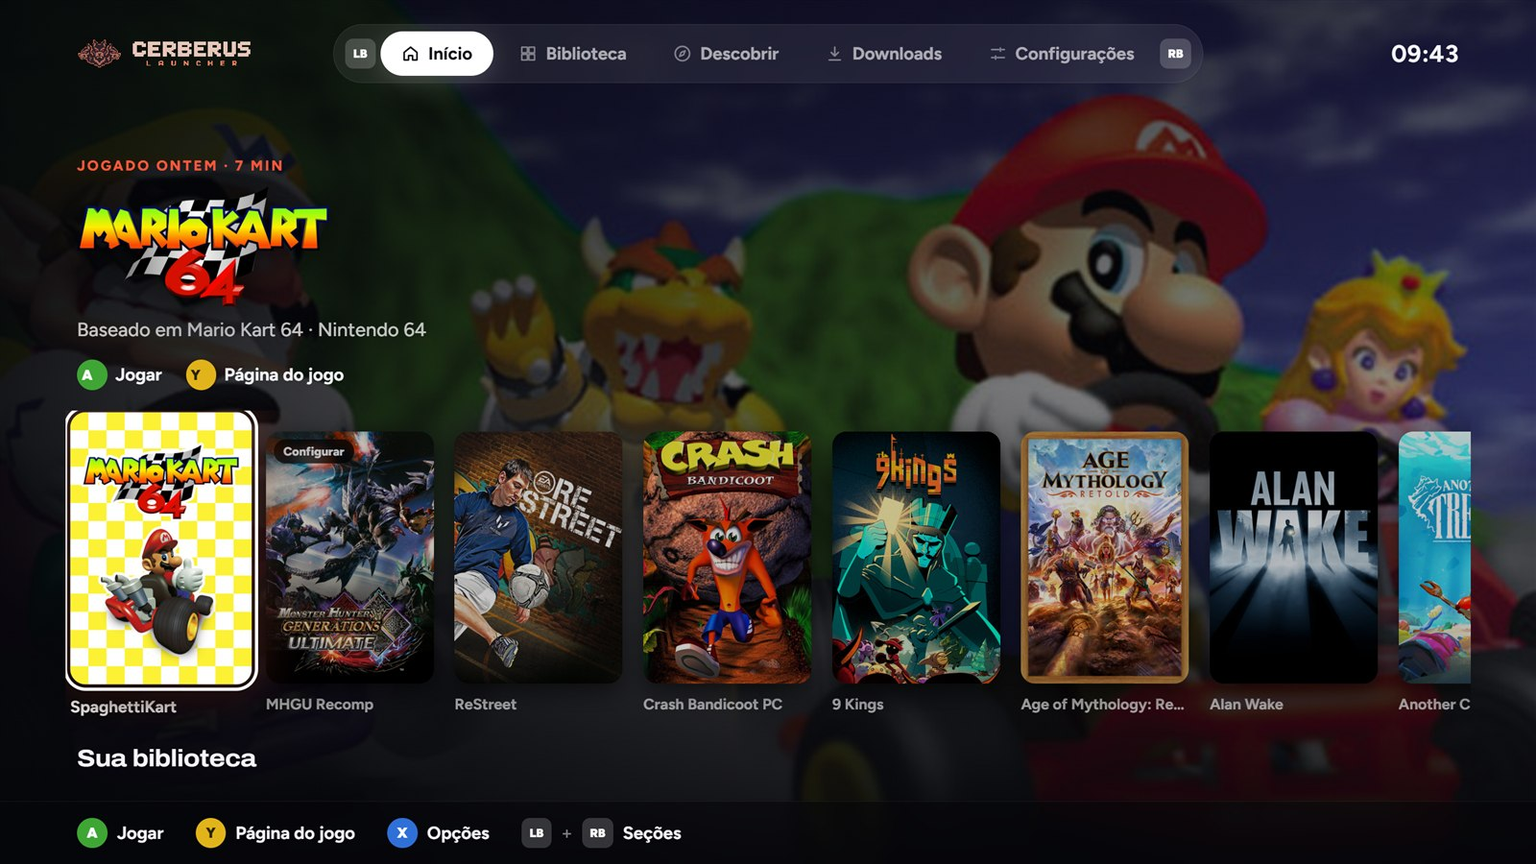
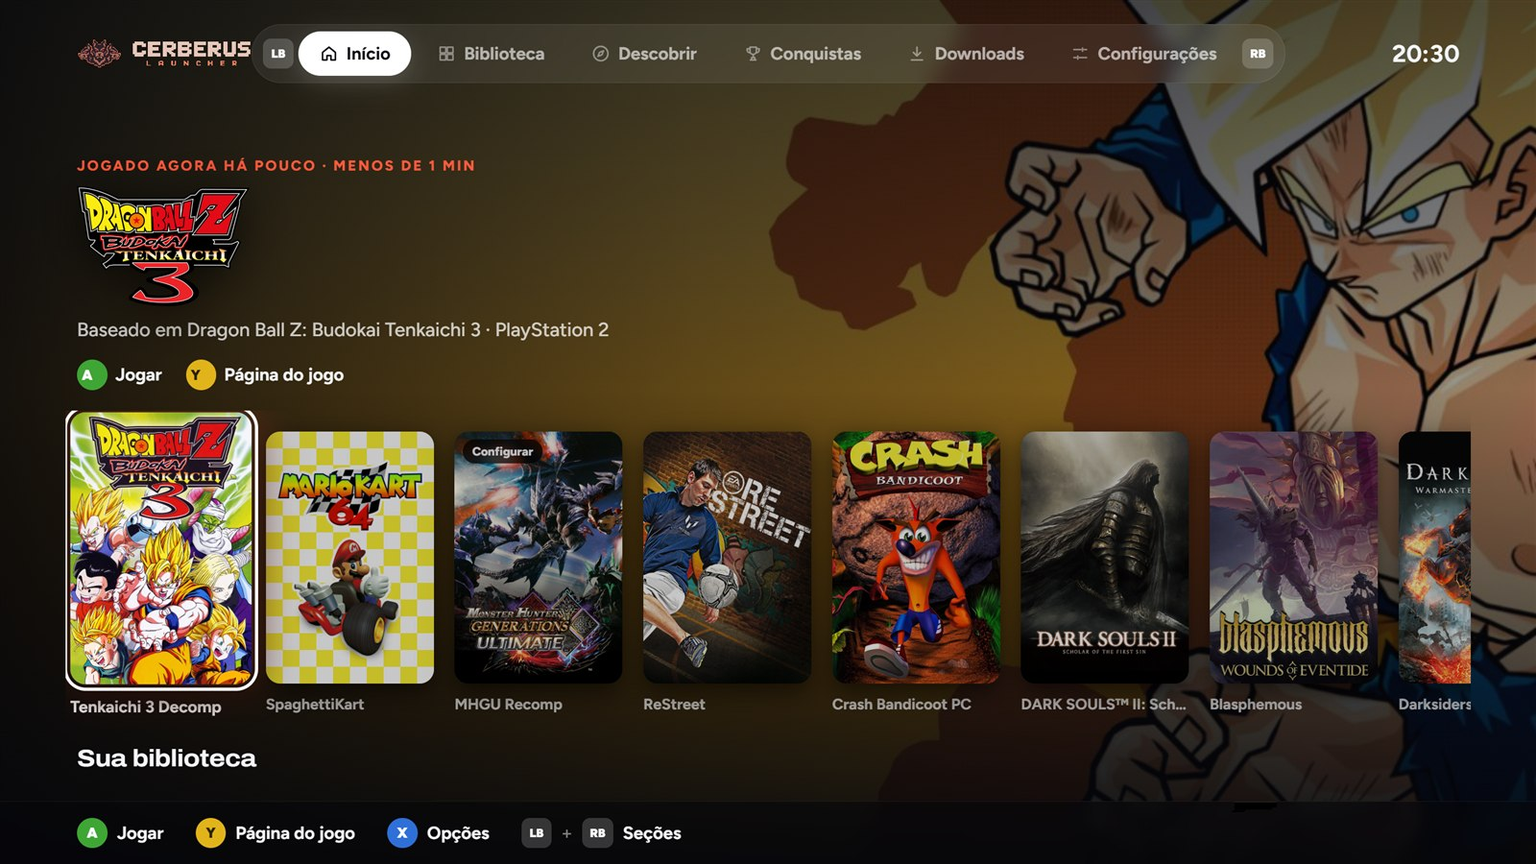
Docs e READMEs: tudo o que entrou nesta versão, com prints novos
Guia novo de Início, menu lateral e Novidades; READMEs com Conquistas,
Novidades, aparência, cópia dos dados, controles e o fim da configuração
inicial; Descobrir com gênero e recurso; CHANGELOG com a próxima versão.
Prints refeitos (início, biblioteca, descobrir, página do jogo, Big Picture,
configuração inicial) e novos (conquistas, novidades, configurações,
conquistas no Big Picture), todos em 1600x900.

Claude-Session: https://claude.ai/code/session_01SNGMTyfas1YiwUwxsbP8rN

diff --git a/README.pt-BR.md b/README.pt-BR.md
@@ -37,25 +37,31 @@ O Cerberus é um launcher de jogos para Windows, gratuito, de código aberto e f
 
 | | |
 |---|---|
-| <img src="docs/screenshots/library.jpg" alt="Biblioteca" /> | **Biblioteca**<br>Steam, Epic e seus jogos num lugar só. Tem favoritos, coleções, jogos ocultos, arte do SteamGridDB, e tempo de jogo e histórico de cada jogo. |
-| <img src="docs/screenshots/discover.jpg" alt="Descobrir" /> | **Descobrir**<br>Mais de 1.500 recomps e ports nativos, com busca por jogo, console ou autor. Instala das releases dos desenvolvedores no GitHub, GitLab ou Forgejo, conferindo o arquivo. Dá para pausar e continuar downloads. |
+| <img src="docs/screenshots/library.jpg" alt="Biblioteca" /> | **Biblioteca**<br>Steam, Epic e seus jogos num lugar só. Tem favoritos, coleções, jogos ocultos, arte do SteamGridDB, e tempo de jogo e histórico de cada jogo. Os jogos que dá para abrir agora também ficam no menu lateral, em **Prontos para jogar**. |
+| <img src="docs/screenshots/discover.jpg" alt="Descobrir" /> | **Descobrir**<br>Mais de 1.500 recomps e ports nativos, com busca por jogo, console ou autor, e filtro por gênero ou pelo que o recomp traz (controle, conquistas, multijogador, tela larga, mods). Instala das releases dos desenvolvedores no GitHub, GitLab ou Forgejo, conferindo o arquivo. Dá para pausar e continuar downloads. |
 | <img src="docs/screenshots/game-page.jpg" alt="Página do jogo" /> | **Página do jogo**<br>Tempo de jogo, versões, saves, ajustes, mods, fotos e gerenciamento numa página só. O **Easy Setup** acha a sua cópia nas pastas de ROMs e entrega do jeito que cada recomp espera: ROM, pasta extraída, ISO, imagem de Xbox ou Xbox 360, CHD ou CSO. |
-| <img src="docs/screenshots/big-picture.jpg" alt="Big Picture Mode" /> | **Big Picture Mode**<br>Tela para jogar do sofá, com controle, teclado ou mouse. Abre em tela cheia no monitor que você escolher. |
+| <img src="docs/screenshots/achievements.jpg" alt="Conquistas" /> | **Conquistas**<br>Steam e RetroAchievements numa página só: seus platinados (jogos com 100%), os mais perto disso, as últimas desbloqueadas e a lista completa de cada jogo, com raridade. Um aviso aparece por cima do jogo na hora em que uma conquista cai. |
+| <img src="docs/screenshots/big-picture.jpg" alt="Big Picture Mode" /> | **Big Picture Mode**<br>Tela para jogar do sofá, com controle, teclado ou mouse. Abre em tela cheia no monitor que você escolher. Tem filtros na Biblioteca, gêneros no Descobrir, aba de Conquistas e avisos no tamanho da TV. |
+| <img src="docs/screenshots/news.jpg" alt="Novidades" /> | **Novidades**<br>Atualizações esperando pelos seus recomps, os anúncios mais recentes dos desenvolvedores dos seus jogos da Steam e o que aconteceu com cada jogo. |
 
 ### E mais
 
 - **Hub de conquistas:** todos os jogos com conquistas da Steam e do RetroAchievements, as últimas desbloqueadas, os seus platinados (jogos com 100%), os mais perto disso e a lista completa de cada jogo, com raridade e conquistas secretas. Os selos do RetroAchievements (zerado, completo, dominado) aparecem no jogo, os do hardcore em dourado. A Steam funciona direto deste PC; com a sua chave gratuita da Web API da Steam, vem a conta inteira. Enquanto você joga um jogo da Steam, o Cerberus avisa quando uma conquista é desbloqueada.
+- **Do seu jeito:** tema Escuro ou Preto (OLED), cinco cores de destaque, tamanho da janela de 90% a 125% e uma busca em **Configurações** que leva direto a qualquer opção.
+- **Seus dados num arquivo só:** **Configurações → Armazenamento → Copiar meus dados** salva biblioteca, favoritos, coleções, notas, tempo de jogo, capas escolhidas e configurações num `.zip` (nunca suas chaves ou senhas). **Restaurar de uma cópia** traz tudo de volta, neste PC ou em outro.
 - **Backup dos saves** depois de cada partida, antes de atualizar e antes de desinstalar. O Cerberus guarda os 10 mais recentes, e eles podem ir para a nuvem por uma pasta sincronizada (OneDrive, Google Drive, Dropbox).
 - **Mods** com um clique, do Thunderstore e do GameBanana. Funciona com Ship of Harkinian, Starship, SpaghettiKart, Ghostship, Unleashed e Marathon Recompiled.
 - **Durante o jogo:**
   - <kbd>F12</kbd> tira uma foto só da janela do jogo.
   - <kbd>Ctrl</kbd>+<kbd>F12</kbd>, ou **View + Menu** no controle, abre um menu por cima do jogo. O menu mostra o tempo de jogo e tem tirar foto, voltar ao Cerberus e fechar o jogo.
+  - Em **Configurações → Durante o jogo** você liga ou desliga cada um, escolhe o canto do aviso de conquista e pode minimizar o Cerberus enquanto joga.
 - **Filtros visuais** Nítido, Cores vivas, CRT e Filme, pelo ReShade.
 - **Erro explicado:** quando um jogo fecha com erro, o Cerberus diz o motivo e onde está o log do jogo. O motivo pode ser uma DLL faltando, um Visual C++ antigo ou um travamento.
 - **DLSS:** mostra a versão que o jogo usa e troca por uma DLL que você já tem. Dá para voltar à original quando quiser.
 - **Steam:** você pode colocar qualquer jogo na Steam (para o Steam Deck e o Big Picture) ou criar um atalho na área de trabalho que abre pelo Cerberus.
 - **Clássicos com vários discos** aparecem como um jogo só. A troca de disco fica no menu do RetroArch.
-- **Integração com o Windows:** ícone na bandeja, abrir com o Windows, avisos e uma janela só, mesmo se você abrir de novo.
+- **Integração com o Windows:** ícone na bandeja, abrir com o Windows, avisos que você escolhe um por um e uma janela só, mesmo se você abrir de novo.
+- **Controles:** **Configurações → Controles** mostra os controles conectados (Xbox, PlayStation, Nintendo) e testa cada botão.
 - **Idiomas:** português do Brasil e inglês. Segue o idioma do Windows, ou você escolhe em **Configurações → Aparência → Idioma**. O instalador também fala os dois.
 
 ## Baixar e instalar
@@ -86,6 +92,7 @@ Na primeira vez, uma configuração rápida pergunta algumas coisas. Tudo pode s
 3. **Suas pastas de ROMs:** o Cerberus procura nelas e mostra quais dos seus jogos já têm recomp.
 4. **Onde instalar os recomps**, com o espaço livre de cada disco.
 5. **Saves na nuvem:** uma pasta que o OneDrive, o Google Drive ou o Dropbox sincroniza.
+6. **Tudo pronto:** seus jogos que têm recomp, e o que mais o Cerberus achou no PC: jogos da Steam e da Epic, e o RetroArch.
 
 ### Instalar um recomp
 
@@ -167,7 +174,7 @@ Use **Pedir um recomp** no Descobrir ou [abra uma issue](https://github.com/roge
 A documentação completa fica em **[docs/](docs/README.md)**. Por enquanto ela está só em inglês; as traduções vêm depois.
 
 - **Primeiros passos:** [instalação](docs/getting-started/installation.md) · [primeira abertura](docs/getting-started/first-launch.md)
-- **Guia:** [biblioteca](docs/guide/library.md) · [recomps](docs/guide/recomps.md) · [Easy Setup](docs/guide/easy-setup.md) · [clássicos](docs/guide/classics.md) · [conquistas](docs/guide/achievements.md) · [saves](docs/guide/saves.md) · [mods](docs/guide/mods.md) · [durante o jogo](docs/guide/in-game.md) · [Big Picture Mode](docs/guide/big-picture.md) · [gerenciar um jogo](docs/guide/managing-games.md) · [configurações](docs/guide/settings.md)
+- **Guia:** [início e novidades](docs/guide/home-and-news.md) · [biblioteca](docs/guide/library.md) · [recomps](docs/guide/recomps.md) · [Easy Setup](docs/guide/easy-setup.md) · [clássicos](docs/guide/classics.md) · [conquistas](docs/guide/achievements.md) · [saves](docs/guide/saves.md) · [mods](docs/guide/mods.md) · [durante o jogo](docs/guide/in-game.md) · [Big Picture Mode](docs/guide/big-picture.md) · [gerenciar um jogo](docs/guide/managing-games.md) · [configurações](docs/guide/settings.md)
 - **Ajuda:** [solução de problemas](docs/help/troubleshooting.md) · [perguntas frequentes](docs/help/faq.md) · [dados e privacidade](docs/help/data-and-privacy.md)
 - **Desenvolvimento:** [arquitetura](docs/development/architecture.md) · [compilar](docs/development/building.md) · [catálogo de recomps](docs/development/catalog.md) · [fontes de catálogo](docs/development/catalog-sources.md) · [traduções](docs/development/translations.md) · [publicar versão](docs/development/releasing.md)
 

diff --git a/README.md b/README.md
@@ -40,23 +40,28 @@ Cerberus is a free, open-source game launcher for Windows, written entirely in R
 
 | | |
 |---|---|
-| <img src="docs/screenshots/library.jpg" alt="Library" /> | **Library**<br>Steam, Epic and your own games in one place. You get favorites, collections, hidden games, custom art from SteamGridDB, and play time and history for every game. |
-| <img src="docs/screenshots/discover.jpg" alt="Discover" /> | **Discover**<br>Over 1,500 recomps and native ports. You can search by game, console or author. Installs come from the developers' GitHub, GitLab or Forgejo releases, with checksum verification. You can pause and resume downloads. |
+| <img src="docs/screenshots/library.jpg" alt="Library" /> | **Library**<br>Steam, Epic and your own games in one place. You get favorites, collections, hidden games, custom art from SteamGridDB, and play time and history for every game. Every game you can start right now is also in the side menu, under **Ready to play**. |
+| <img src="docs/screenshots/discover.jpg" alt="Discover" /> | **Discover**<br>Over 1,500 recomps and native ports. You can search by game, console or author, and filter by genre or by what a recomp adds (controller, achievements, multiplayer, widescreen, mods). Installs come from the developers' GitHub, GitLab or Forgejo releases, with checksum verification. You can pause and resume downloads. |
 | <img src="docs/screenshots/game-page.jpg" alt="Game page" /> | **Game page**<br>Play time, versions, saves, game settings, mods, screenshots and management, all in one page. **Easy Setup** finds your copy in your ROM folders and delivers it the way each recomp expects. That works for a ROM, an extracted folder, an ISO, an Xbox or Xbox 360 image, a CHD or a CSO. |
-| <img src="docs/screenshots/big-picture.jpg" alt="Big Picture Mode" /> | **Big Picture Mode**<br>A TV interface for the couch. You can use a controller, keyboard or mouse, and it opens full screen on the monitor you choose. |
+| <img src="docs/screenshots/achievements.jpg" alt="Achievements" /> | **Achievements**<br>Steam and RetroAchievements on one page: your platinums (games at 100%), the games closest to it, the latest unlocks and each game's full list with rarity. A notice shows over the game the moment one unlocks. |
+| <img src="docs/screenshots/big-picture.jpg" alt="Big Picture Mode" /> | **Big Picture Mode**<br>A TV interface for the couch. You can use a controller, keyboard or mouse, and it opens full screen on the monitor you choose. It has its own Library filters, genres in Discover, an Achievements tab and TV-sized notices. |
+| <img src="docs/screenshots/news.jpg" alt="News" /> | **News**<br>Updates waiting for your recomps, the latest announcements from the developers of your Steam games, and what happened lately with every game. |
 
 ### And also
 
 - **Achievements hub:** every game with achievements from Steam and RetroAchievements, the latest unlocks, your platinums (games at 100%), the games closest to it, and each game's full list with rarity and secret achievements. RetroAchievements awards (beaten, completed, mastered) show as badges, hardcore ones in gold. Steam works straight from this PC; with your free Steam Web API key it covers your whole account. While you play a Steam game, Cerberus tells you when an achievement unlocks.
+- **Make it yours:** Dark or Black (OLED) theme, five accent colors, window size from 90% to 125%, and a search box in **Settings** that takes you straight to any option.
+- **Your data in one file:** **Settings → Storage → Copy my data** saves the library, favorites, collections, notes, play time, chosen covers and settings in a `.zip` (never your keys or passwords). **Restore from a copy** brings it back, on this PC or another one.
 - **Save backups:** after every session, before updates and before uninstalling. Cerberus keeps the 10 most recent backups, and can copy them to the cloud through any synced folder (OneDrive, Google Drive, Dropbox).
 - **Mods:** one-click mods from Thunderstore and GameBanana, including Ship of Harkinian, Starship, SpaghettiKart, Ghostship, Unleashed and Marathon Recompiled.
-- **In-game tools:** <kbd>F12</kbd> takes a screenshot of just the game window. <kbd>Ctrl</kbd>+<kbd>F12</kbd> (or **View + Menu** on a controller) opens a menu on top of the game, with play time, screenshots, "back to Cerberus" and "close game".
+- **In-game tools:** <kbd>F12</kbd> takes a screenshot of just the game window. <kbd>Ctrl</kbd>+<kbd>F12</kbd> (or **View + Menu** on a controller) opens a menu on top of the game, with play time, screenshots, "back to Cerberus" and "close game". **Settings → While playing** turns each one on or off, picks the corner for achievement notices, and can minimize Cerberus while a game runs.
 - **Visual filters:** Sharp, Vivid, CRT and Film, applied with ReShade.
 - **Crash explanations:** when a game closes with an error, Cerberus tells you the cause and where the game's log is. The cause can be a missing DLL, an old Visual C++ runtime or a crash.
 - **DLSS:** Cerberus shows which DLSS version a game uses. You can swap it for a DLL you already have and go back to the original at any time.
 - **Steam integration:** add any game to Steam (for Steam Deck and Big Picture), or create a desktop shortcut that opens the game through Cerberus.
 - **Multi-disc classics:** games on several discs show up as one game, and you swap discs from RetroArch's menu.
-- **Windows integration:** tray icon, start with Windows, notifications, and only one copy of Cerberus running at a time.
+- **Windows integration:** tray icon, start with Windows, notifications you choose one by one, and only one copy of Cerberus running at a time.
+- **Controllers:** **Settings → Controllers** lists the connected controllers (Xbox, PlayStation, Nintendo) and lets you test every button.
 - **Languages:** English and Brazilian Portuguese, following Windows or picked in the settings. The installer speaks both too.
 
 ## Download and install
@@ -86,6 +91,7 @@ The first time Cerberus opens, a short setup guide asks a few questions. You can
 3. **Your ROM folders:** Cerberus scans them and shows which of your games already have a recomp.
 4. **Where recomps are installed,** with the free space on each drive.
 5. **Saves in the cloud:** a folder that OneDrive, Google Drive or Dropbox keeps in sync.
+6. **All set:** your games that have a recomp, and what else Cerberus found on this PC: Steam and Epic games, and RetroArch.
 
 ### Install a recomp
 
@@ -167,7 +173,7 @@ Use **Request a recomp** in Discover, or [open an issue](https://github.com/roge
 The full documentation lives in **[docs/](docs/README.md)**:
 
 - **Getting started:** [Installation](docs/getting-started/installation.md) · [First launch](docs/getting-started/first-launch.md)
-- **User guide:** [Library](docs/guide/library.md) · [Recomps](docs/guide/recomps.md) · [Easy Setup](docs/guide/easy-setup.md) · [Classics](docs/guide/classics.md) · [Achievements](docs/guide/achievements.md) · [Saves](docs/guide/saves.md) · [Mods](docs/guide/mods.md) · [While you play](docs/guide/in-game.md) · [Big Picture Mode](docs/guide/big-picture.md) · [Managing a game](docs/guide/managing-games.md) · [Settings](docs/guide/settings.md)
+- **User guide:** [Home and News](docs/guide/home-and-news.md) · [Library](docs/guide/library.md) · [Recomps](docs/guide/recomps.md) · [Easy Setup](docs/guide/easy-setup.md) · [Classics](docs/guide/classics.md) · [Achievements](docs/guide/achievements.md) · [Saves](docs/guide/saves.md) · [Mods](docs/guide/mods.md) · [While you play](docs/guide/in-game.md) · [Big Picture Mode](docs/guide/big-picture.md) · [Managing a game](docs/guide/managing-games.md) · [Settings](docs/guide/settings.md)
 - **Help:** [Troubleshooting](docs/help/troubleshooting.md) · [FAQ](docs/help/faq.md) · [Data and privacy](docs/help/data-and-privacy.md)
 - **Development:** [Architecture](docs/development/architecture.md) · [Building](docs/development/building.md) · [Recomp catalog](docs/development/catalog.md) · [Catalog sources](docs/development/catalog-sources.md) · [Translations](docs/development/translations.md) · [Releasing](docs/development/releasing.md)
 

diff --git a/docs/guide/home-and-news.md b/docs/guide/home-and-news.md
@@ -1,0 +1,31 @@
+# Home, the side menu and News
+
+![Home](../screenshots/home.jpg)
+
+## Home
+
+**Home** is where Cerberus opens (you can change that in **Settings → General → Start page**).
+
+- **The banner** at the top shows the game you were playing, then a few recomps worth a look. For your game it shows its logo, when you last played, how long the last session was, your total time and achievement progress, with **Play** and **Details**. It moves on by itself; the arrows and dots move it by hand, and the pause button stops it.
+- **Play again:** the games you played most recently.
+- **Favorites:** every game you starred.
+- **Found in your folders:** recomps for games that are in your ROM folders.
+- **Popular now** and **Recently added:** from the recomp catalog.
+
+Hover a cover to get a round **Play** button (or **Install**), so you can start a game without opening its page. A thin bar at the bottom of a cover shows its achievement progress; at 100% it turns gold and says **Platinum**. Each row has arrows at the top right to scroll it.
+
+## The side menu
+
+- **Pages:** Home, Library, Discover, Achievements, Downloads, Saves and News. Downloads and News show a count when something is waiting.
+- **Ready to play:** every game you can start right now, favorites first, then the most recently played. A game that is running shows a dot. Hover one for its **Play** button, or click it for its page. With more than 8 games, a filter box appears on top.
+- **At the bottom:** **+** adds any game (`.exe`), the TV button opens [Big Picture Mode](big-picture.md), and the last one opens [Settings](settings.md).
+
+## News
+
+![News](../screenshots/news.jpg)
+
+**News** shows what changed since you last looked:
+
+- **Updates available:** your recomps that have a newer release, with **See what changed** and **Update**.
+- **News from your games:** the latest announcements from the developers of your 12 most recently played Steam games: patches, updates and events, with cover, date and the start of the post. Click one to read it on Steam in your browser. It uses Steam's public news, with no key and no account; the answers are kept for 6 hours, so the page opens at once.
+- **Recent activity:** installs, play sessions, backups, achievements and problems across all your games. Click a line to open that game's page.

diff --git a/CHANGELOG.md b/CHANGELOG.md
@@ -1,5 +1,46 @@
 # Novidades
 
+## Próxima versão
+
+### Início, menu lateral e Novidades
+
+- Banner com o logo do jogo, sua última sessão, tempo total e conquistas; botão **Jogar** na própria capa; fileira de Favoritos.
+- Menu lateral com **Prontos para jogar**: os jogos que dá para abrir agora, com filtro. Embaixo, **+** (adicionar jogo), Big Picture e Configurações.
+- **Novidades** mostra os anúncios dos desenvolvedores dos seus jogos da Steam, além das atualizações e da atividade recente.
+
+### Biblioteca e Descobrir
+
+- Jogos da sua conta Steam que não estão instalados, com **Instalar**.
+- Situação, nota e anotações de cada jogo, e jogo aleatório.
+- Barra de conquistas na capa; a 100% o jogo vira **Platinado**.
+- Descobrir com filtro por gênero e pelo que o recomp traz (controle, conquistas, multijogador, tela larga, mods).
+
+### Conquistas
+
+- Hub com Steam e RetroAchievements: platinados, perto dos 100%, últimas desbloqueadas e a lista de cada jogo com raridade.
+- Aviso por cima do jogo quando uma conquista cai, no canto que você escolher.
+- Chave opcional da Web API da Steam para a conta inteira.
+
+### Página do jogo, Downloads e Saves
+
+- Dados da loja da Steam, galeria com trailers, gráfico de jogatina e coluna lateral.
+- Downloads em seções, limite de velocidade e mais devagar enquanto você joga.
+- Saves com status de cada jogo, nuvem e histórico na própria página.
+
+### Big Picture Mode
+
+- Página de jogo completa, filtros na Biblioteca, gêneros no Descobrir e aba de Conquistas com a lista de cada jogo.
+- O jogo aberto aparece no topo, e os avisos aparecem no tamanho da TV.
+
+### Configurações
+
+- Busca: digite parte do nome e vá direto para a opção.
+- **Aparência:** tema Escuro ou Preto (OLED), cinco cores de destaque e tamanho da janela (90% a 125%).
+- **Durante o jogo**, **Notificações**, **Controles** e **Epic Games**.
+- **Armazenamento:** copiar os seus dados num `.zip` (sem chaves nem senhas) e restaurar de uma cópia.
+- Configuração inicial começa pelo idioma e termina mostrando o que o Cerberus achou no PC.
+- O próprio Cerberus avisa quando tem versão nova.
+
 ## 0.10.0 — primeira versão para Windows
 
 Primeira versão com instalador. Baixe `Cerberus-Launcher_0.10.0_x64-setup.exe` em Assets e instale.

diff --git a/docs/guide/big-picture.md b/docs/guide/big-picture.md
@@ -21,6 +21,9 @@ It opens on the monitor chosen in **Settings → General → Monitor**. That opt
 - **Achievements:** your totals and platinums, then rows of games close to 100%, platinums and recent unlocks, each cover with its count and bar. **A** opens the game's page; games that aren't in the library (RetroAchievements classics, for example) open their own list: unlocked first, then the rest from the most common, with points and dates. Secret ones stay hidden until you press **A** on them.
 - **A game's page:** for Steam games, the store description, pictures (A opens them full screen, the D-pad changes picture), achievements and details. While the game runs, the main button is **Back to game**.
 - The top bar shows the game you're playing and for how long.
+- Notices (backup done, install finished, errors) show at the top right, sized for the TV.
+
+![A game's achievements in Big Picture Mode](../screenshots/big-picture-achievements.jpg)
 
 ## Controls
 

diff --git a/docs/guide/recomps.md b/docs/guide/recomps.md
@@ -12,6 +12,8 @@ A **recomp** is a native PC version of a console game, rebuilt by the community 
 - Show the list **by recomp**, or **by game**, which groups every version of the same game.
 - **I own the game** keeps only games found in your ROM folders.
 - Sort by **Popular**, **Recently added**, **Recently updated** or **A to Z**, and filter by platform.
+- **Genre** chips (Action, Platformers, Racing, RPG...) show how many games each has; click one to keep only that kind, again to clear it.
+- **Feature** keeps the recomps that add something: controller support, achievements, local multiplayer, online, higher FPS, widescreen or mods.
 
 The catalog combines Cerberus's own list with the public list from [recomplauncher.com](https://recomplauncher.com). The second one can be turned off in **Settings → Catalog and sources**. See [Recomp catalog](../development/catalog.md).
 

diff --git a/docs/guide/library.md b/docs/guide/library.md
@@ -44,7 +44,7 @@ Right-click any cover for a quick menu:
 
 - **Play**, or whatever the next step is (install, update, set up).
 - **Game page**.
-- **Favorite**, which also pins the game to the sidebar.
+- **Favorite**, which also puts the game on Home's Favorites row and at the top of **Ready to play** in the side menu.
 - **Collections**: tick the collections this game belongs to, or create a new one on the spot.
 - **Hide from library**: the game moves to the Hidden tab and leaves Home, the sidebar and Big Picture Mode. **Show in library** brings it back.
 

diff --git a/docs/README.md b/docs/README.md
@@ -15,6 +15,7 @@ Cerberus is a free, open-source game launcher for Windows. It keeps your Steam, 
 
 | Page | What it covers |
 |---|---|
+| [Home, side menu and News](guide/home-and-news.md) | The Home page, Ready to play, and News (updates, Steam news, activity) |
 | [Library](guide/library.md) | Where games come from, tabs, favorites, collections, hidden games, art |
 | [Recomps](guide/recomps.md) | Discover, installing, updates, versions, recomps you already have |
 | [Easy Setup](guide/easy-setup.md) | How Cerberus hands your copy of a game to a recomp |

diff --git a/docs/guide/settings.md b/docs/guide/settings.md
@@ -2,6 +2,8 @@
 
 Every setting, in the order the **Settings** page shows them.
 
+![Settings, Appearance](../screenshots/settings.jpg)
+
 Looking for one? Type part of its name in the search box above the menu, with or without accents: "tray", "F12" or "cloud". Pick a result (or press Enter for the first) and Settings opens that section with the option marked.
 
 ## App

diff --git a/docs/guide/achievements.md b/docs/guide/achievements.md
@@ -2,6 +2,8 @@
 
 The **Achievements** page brings Steam and RetroAchievements together: every game with achievements, what you unlocked lately, and each game's full list.
 
+![Achievements](../screenshots/achievements.jpg)
+
 ## Where the achievements come from
 
 | Source | What you need | What you get |
